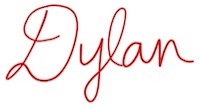
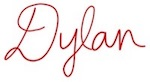
fix poor wording and pic sizing

diff --git a/index.md b/index.md
@@ -2,7 +2,7 @@
 title: Home
 ---
 
-![headshot](pics/headshot.jpg){:height="248px" width="200px"} | ![headshot_neuralstyle](pics/dylan_style.png){:height="248px" width="200px"}
+![headshot](pics/headshot.jpg){:height="186px" width="150px"} | ![headshot_neuralstyle](pics/dylan_style.png){:height="186px" width="150px"}
 
 # **Welcome to my website!**
 
@@ -10,31 +10,27 @@ title: Home
 - Examples of [research](index.md#research) and [applied projects](index.md#applied) I have worked on
 - My [resume](resume/resume.pdf) and a brief [background](index.md#background)
 - Links to my [GitHub](https://github.com/dylanrandle) and [LinkedIn](https://linkedin.com/in/dylanrandle/) profiles
-- An informal [blog](blog.md)
+- A [blog](blog.md)
 
 [![resume](pics/resume-clipart-icons-3.png){:height="50px" width="50px"}](resume/resume.pdf) | [![gitlogo](pics/GitHub-Mark.png){:height="60px" width="60px"}](https://github.com/dylanrandle) | [![linkedinlogo](pics/linkedin.png){:height="70px" width="70px"}](https://linkedin.com/in/dylanrandle/)
 
 ## Background
 
-I grew up in [Toronto, Canada](https://en.wikipedia.org/wiki/Toronto), attending [Upper Canada College](https://www.ucc.on.ca/) for high school, and studying math, physics, and economics. For college, I moved across the continent to [Berkeley, California](https://en.wikipedia.org/wiki/Berkeley,_California) where I had the privilege of studying at [UC Berkeley's College of Engineering](https://engineering.berkeley.edu/), and majored in [Industrial Engineering & Operations Research](https://ieor.berkeley.edu/) (a branch of applied mathematics focusing on business applications).
-
-<!-- ### *Education* -->
+I grew up in Toronto, Canada where I attended [Upper Canada College](https://www.ucc.on.ca/) and enjoyed studying math, physics, and economics. For college, I moved to Berkeley, California where I had the privilege of studying at [UC Berkeley's College of Engineering](https://engineering.berkeley.edu/), majoring in [Industrial Engineering & Operations Research](https://ieor.berkeley.edu/) (a branch of applied mathematics focusing on business applications).
 
 ![berkeley](pics/UCBEngineering_logo.png){:height="32px" width="250px"} | ![hubdoc](pics/hubdoc.png){:height="42px" width="150px"}
 
-Thereafter, I became the first data scientist at an exciting Toronto startup called [Hubdoc](https://www.hubdoc.com/), where I worked with bright and talented colleagues to design, develop and deploy a client-facing, production deep-learning system for information extraction from financial documents. This system was central to the company's value proposition and [later acquisition](https://www.zdnet.com/article/xero-scoops-up-hubdoc-in-70-million-acquisition/).
-
-<!-- ### *Work Experience* -->
+Later I became the first data scientist at an exciting Toronto startup called [Hubdoc](https://www.hubdoc.com/), where I got to work with bright and talented colleagues to design, develop, and deploy a client-facing, production deep-learning system for information extraction from financial documents. This system was central to the company's value proposition and [later acquisition](https://www.zdnet.com/article/xero-scoops-up-hubdoc-in-70-million-acquisition/).
 
 ![harvard](pics/H_SEAS_logo_RGB.jpg){:height="64px" width="225px"} | ![amazon](pics/amazon-robotics-logo-feature.jpg){:height="56px" width="175px"}
 
-Realizing that the future of data science and machine learning would be bright, I enrolled in [Harvard's data science program](https://www.seas.harvard.edu/applied-computation/graduate-programs/masters-data-science) to gain a deeper understanding of the field. At Harvard I have relished the chance to work and learn with incredible colleagues and mentors. Over the summer I interned with Amazon Robotics in Boston, MA, and greatly enjoyed the technical and engineering work being done there.
+Realizing that the future of data science and machine learning would be bright, I enrolled in [Harvard's data science program](https://www.seas.harvard.edu/applied-computation/graduate-programs/masters-data-science) to gain a deeper understanding of the field. At Harvard I have relished the chance to work and learn alongside incredible peers and professors. Recently, I interned with Amazon Robotics where I greatly enjoyed taking part in the technical and engineering work being done there.
 
 ## Researh & Applied Projects
 
 ### Research
 - Unsupervised Generative Adversarial Networks for Differential Equations (in progress)
-![deqgan_diagram](pics/DEQGAN_diagram.png)
+<!-- ![deqgan_diagram](pics/DEQGAN_diagram.png) -->
 - Interpretable Reinforcement Learning for Healthcare (in progress)
 
 ### Applied
@@ -56,6 +52,3 @@ Realizing that the future of data science and machine learning would be bright, 
 
 ## Blog
 My [thoughts](blog.md) on various topics.
-
-<!-- ## Awards
-Some of the [recognitions](awards.md) I have been fortunate to receive. -->
